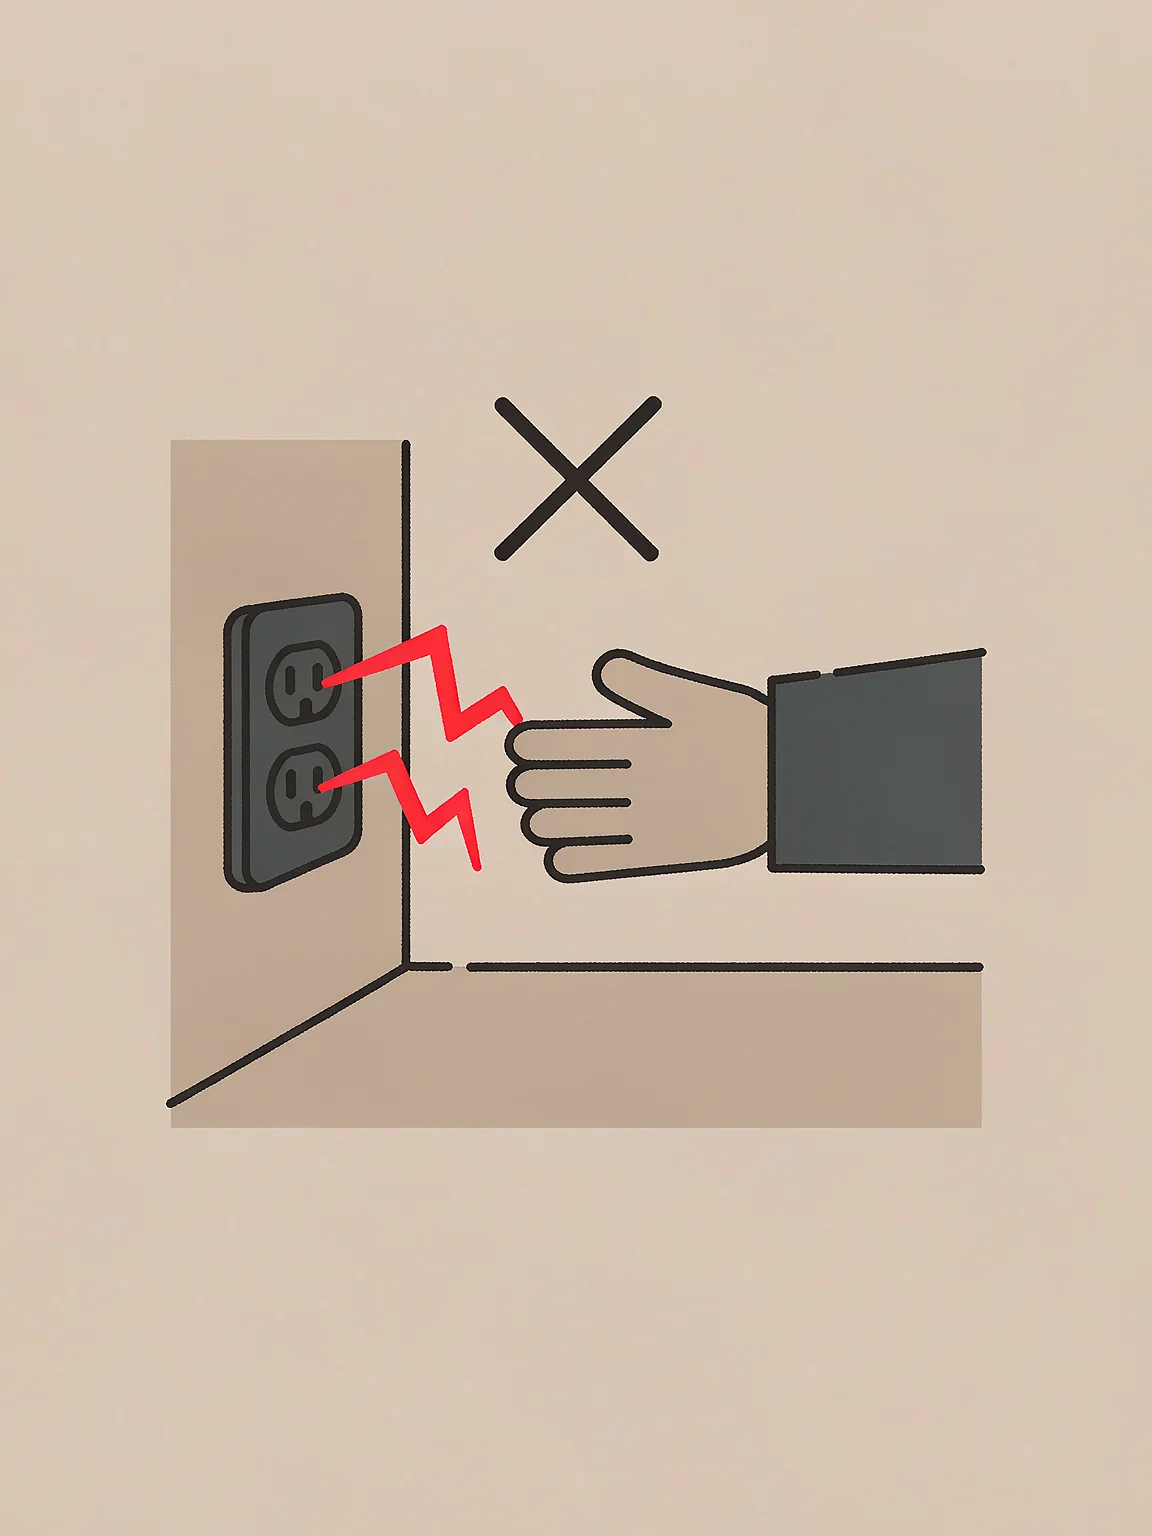
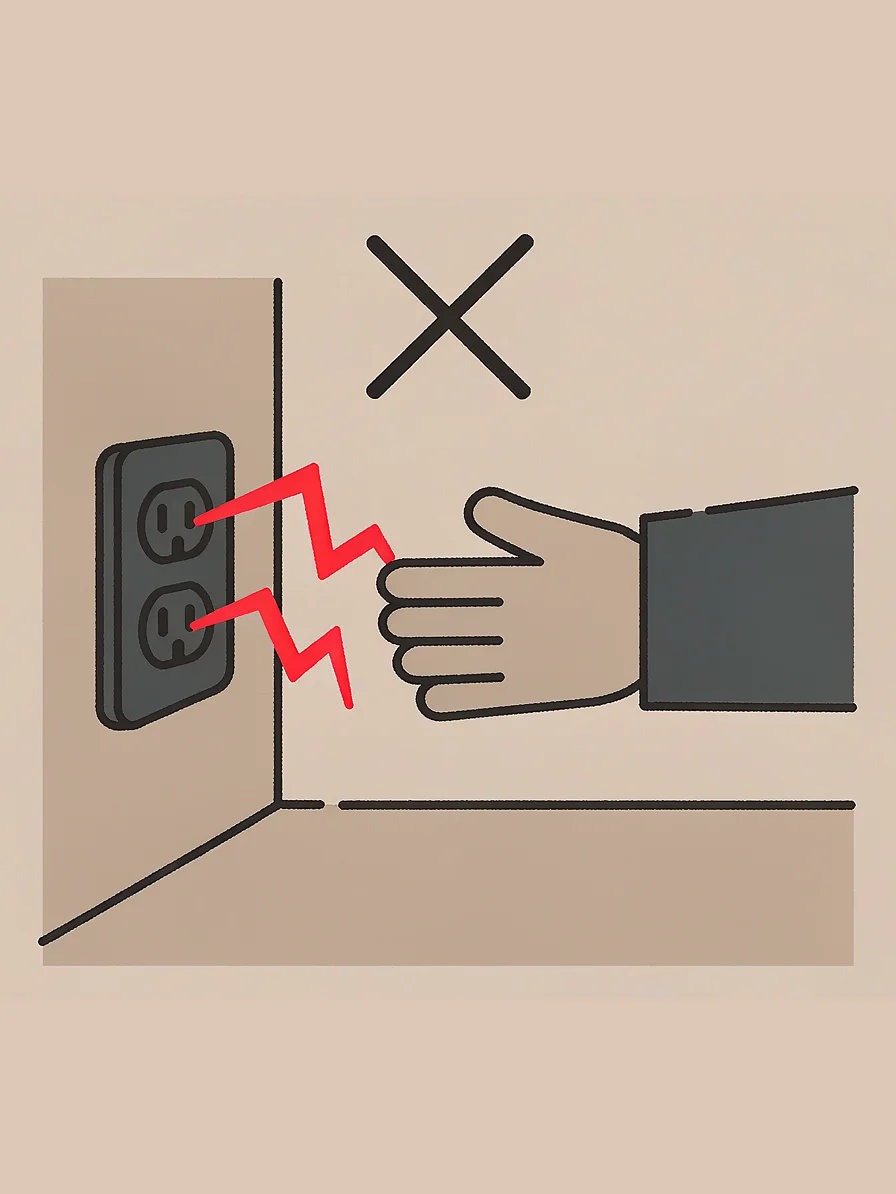
Fix: SPA rewrites, 17 images re-framed (auto-crop empty margins), mobile rail cleanup, vercel.json

Changed region(s): [[0.0312, 0.2169, 0.9688, 0.8367], [0.4062, 0.1859, 0.5938, 0.3719]]

diff --git a/src/styles.css b/src/styles.css
@@ -111,9 +111,14 @@ ul {
   text-decoration: none;
   white-space: nowrap;
 }
+@media (max-width: 480px) {
+  .rail__wordmark { display: none; }
+  .rail__marker { text-align: left; }
+}
 
 .rail__marker {
-  flex: 1 1 auto;
+  flex: 0 1 auto;
+  min-width: 0;
   overflow: hidden;
   color: var(--ink2);
   font-size: 11px;
